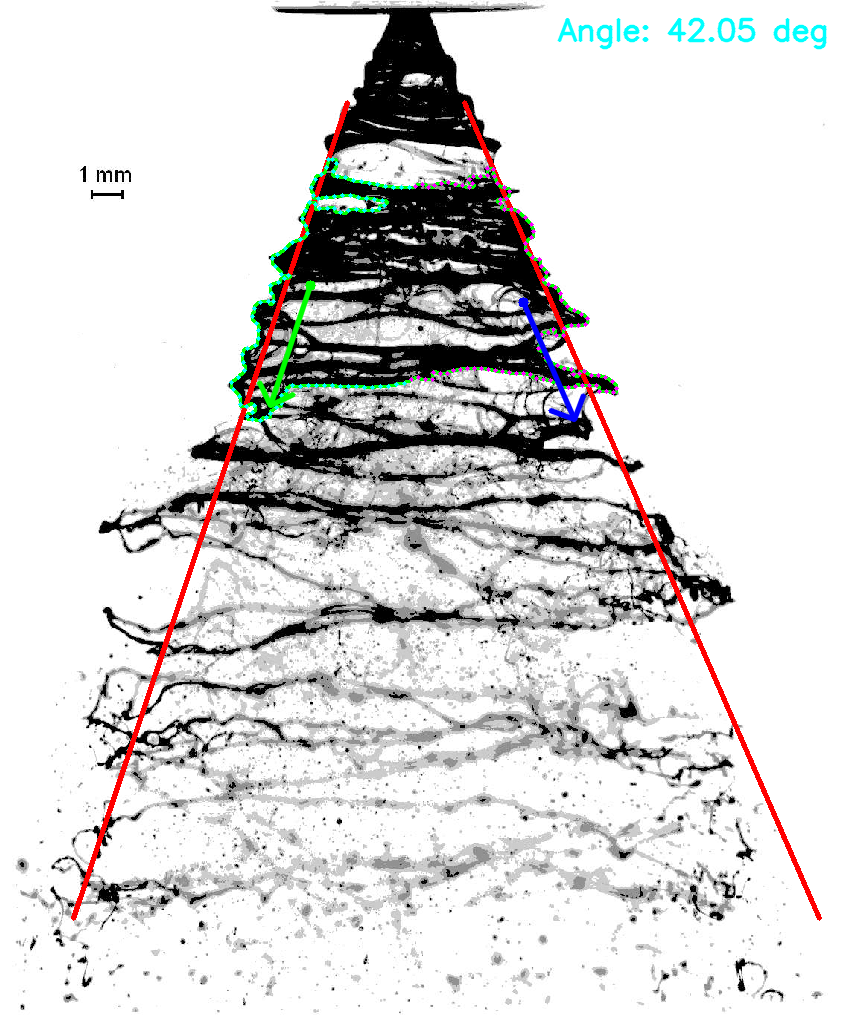
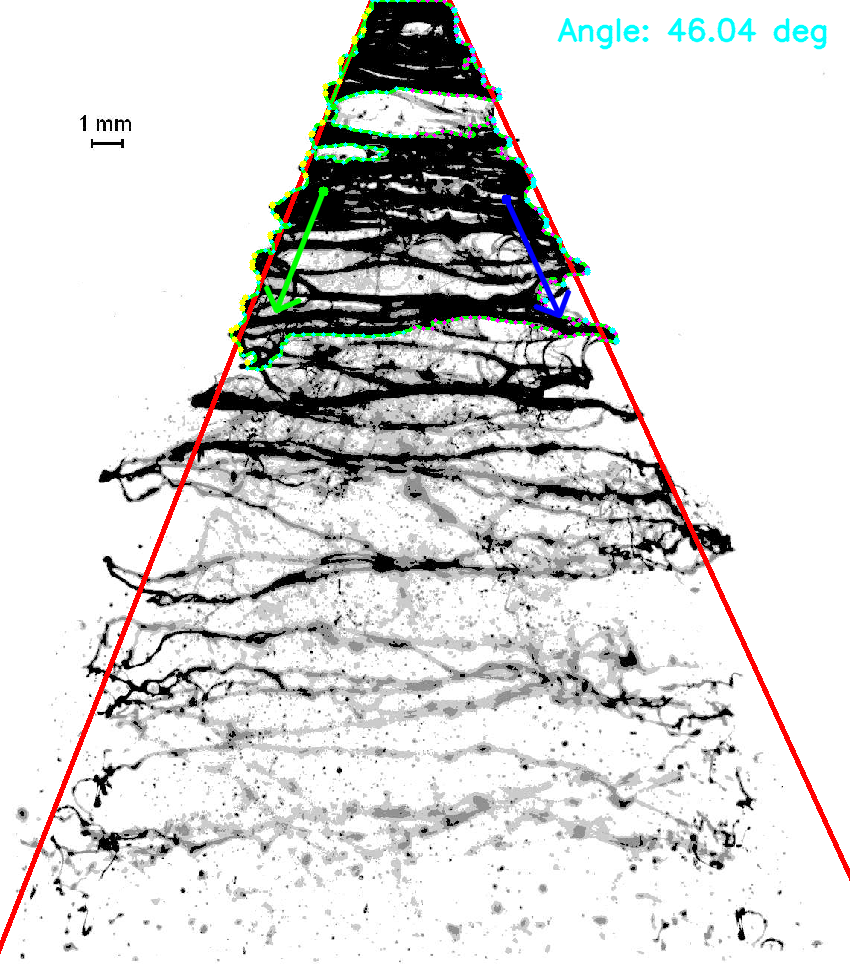
Cone working nicely
Working nicely. Uses the outermost points found from the PCA analysis to draw the lines, and chops off the top 5% of the image to make sure it only sees the cone.

diff --git a/Trials/Cone_3.py b/Trials/Cone_3.py
@@ -98,9 +98,10 @@ def preprocess_image(gray: np.ndarray) -> np.ndarray:
     
     # Clear image borders to prevent detecting frame as contour
     # Set border pixels to background (255 = white background)
+    # Note: Don't clear top border - cone should start at the top
     h, w = closed.shape
     border_px = max(5, min(w, h) // 100)  # At least 5 pixels, or 1% of smaller dimension
-    closed[:border_px, :] = 255  # Top border
+    # closed[:border_px, :] = 255  # Top border - DISABLED to allow top of cone
     closed[-border_px:, :] = 255  # Bottom border
     closed[:, :border_px] = 255  # Left border
     closed[:, -border_px:] = 255  # Right border
@@ -152,9 +153,12 @@ def find_spray_contour(binary: np.ndarray, border_px: int = 5) -> np.ndarray:
         
         # Reject contours that touch image borders (likely frame artifacts)
         # Use margin based on border_px used in preprocessing
+        # Note: Allow touching top border - cone should start at top
         margin = max(5, border_px + 2)  # Small margin
-        touches_border = (x <= margin or y <= margin or 
-                         x + cw >= w - margin or y + ch >= h - margin)
+        touches_border = (x <= margin or  # Left border
+                         x + cw >= w - margin or  # Right border
+                         y + ch >= h - margin)  # Bottom border
+        # Don't check top border (y <= margin) - cone can start at top
         
         if touches_border:
             continue
@@ -178,9 +182,12 @@ def find_spray_contour(binary: np.ndarray, border_px: int = 5) -> np.ndarray:
             x, y, cw, ch = cv2.boundingRect(c)
             
             # More relaxed border check - only reject if clearly on border
+            # Note: Allow touching top border - cone should start at top
             margin = 2
-            touches_border = (x <= margin or y <= margin or 
-                             x + cw >= w - margin or y + ch >= h - margin)
+            touches_border = (x <= margin or  # Left border
+                             x + cw >= w - margin or  # Right border
+                             y + ch >= h - margin)  # Bottom border
+            # Don't check top border (y <= margin) - cone can start at top
             
             if touches_border:
                 continue
@@ -221,10 +228,100 @@ def find_spray_contour(binary: np.ndarray, border_px: int = 5) -> np.ndarray:
         print(f"[Cone_3] All {len(contours)} contours were rejected")
         raise RuntimeError(f"No suitable contours found after all filtering attempts (area: {min_area:.0f}-{max_area:.0f}, not touching borders)")
     
-    # Select the largest contour from filtered set
-    largest_contour = max(filtered_contours, key=cv2.contourArea)
+    # Handle disconnected contours (e.g., void in middle of cone)
+    # If multiple contours, try to combine vertically-aligned ones or select topmost
+    if len(filtered_contours) > 1:
+        print(f"[Cone_3] Found {len(filtered_contours)} filtered contours - checking for vertical alignment...")
+        
+        # Sort contours by topmost Y coordinate (top of bounding box)
+        contours_with_tops = []
+        for c in filtered_contours:
+            x, y, cw, ch = cv2.boundingRect(c)
+            top_y = y
+            contours_with_tops.append((top_y, c))
+        
+        # Sort by top Y (ascending - topmost first)
+        contours_with_tops.sort(key=lambda x: x[0])
+        
+        # Check if contours are vertically aligned (likely top and bottom parts of same cone)
+        # Two contours are aligned if their X ranges overlap significantly
+        def x_overlap(rect1, rect2):
+            x1, y1, w1, h1 = rect1
+            x2, y2, w2, h2 = rect2
+            x1_end = x1 + w1
+            x2_end = x2 + w2
+            overlap_start = max(x1, x2)
+            overlap_end = min(x1_end, x2_end)
+            if overlap_end <= overlap_start:
+                return 0
+            overlap_width = overlap_end - overlap_start
+            min_width = min(w1, w2)
+            return overlap_width / min_width if min_width > 0 else 0
+        
+        # Try to combine vertically-aligned contours
+        combined_contours = []
+        used = set()
+        
+        for i, (top_y1, c1) in enumerate(contours_with_tops):
+            if i in used:
+                continue
+            
+            rect1 = cv2.boundingRect(c1)
+            combined = [c1]
+            used.add(i)
+            
+            # Look for other contours that are vertically aligned
+            for j, (top_y2, c2) in enumerate(contours_with_tops[i+1:], start=i+1):
+                if j in used:
+                    continue
+                
+                rect2 = cv2.boundingRect(c2)
+                overlap_ratio = x_overlap(rect1, rect2)
+                
+                # If X ranges overlap significantly (>50%) and vertically separated, combine
+                if overlap_ratio > 0.5:
+                    # Check vertical separation - should have gap but not too far
+                    y1_bottom = rect1[1] + rect1[3]
+                    y2_top = rect2[1]
+                    gap = y2_top - y1_bottom
+                    max_gap = h * 0.3  # Allow gap up to 30% of image height
+                    
+                    if 0 <= gap <= max_gap:
+                        print(f"[Cone_3]   Combining contours {i} and {j} (X overlap: {overlap_ratio:.2f}, gap: {gap:.0f}px)")
+                        combined.append(c2)
+                        used.add(j)
+                        # Update rect1 to include both
+                        x1, y1, w1, h1 = rect1
+                        x2, y2, w2, h2 = rect2
+                        x_min = min(x1, x2)
+                        y_min = min(y1, y2)
+                        x_max = max(x1 + w1, x2 + w2)
+                        y_max = max(y1 + h1, y2 + h2)
+                        rect1 = (x_min, y_min, x_max - x_min, y_max - y_min)
+            
+            # Combine all contours in this group
+            if len(combined) > 1:
+                # Concatenate all points
+                all_points = np.vstack([c.reshape(-1, 2) for c in combined])
+                # Create new contour from combined points
+                combined_contour = all_points.reshape(-1, 1, 2).astype(np.int32)
+                combined_contours.append(combined_contour)
+            else:
+                combined_contours.append(combined[0])
+        
+        if combined_contours:
+            print(f"[Cone_3] Combined into {len(combined_contours)} contour(s)")
+            # Select the topmost combined contour (should include the top part)
+            topmost_combined = min(combined_contours, key=lambda c: cv2.boundingRect(c)[1])
+            return topmost_combined
+        else:
+            # Fallback: select topmost contour
+            print(f"[Cone_3]   No vertical alignment found, selecting topmost contour")
+            topmost_contour = contours_with_tops[0][1]
+            return topmost_contour
     
-    return largest_contour
+    # Single contour - return it
+    return filtered_contours[0]
 
 
 def split_contour_edges(contour: np.ndarray, nozzle_x: float | None = None) -> tuple[np.ndarray, np.ndarray]:
@@ -266,6 +363,72 @@ def split_contour_edges(contour: np.ndarray, nozzle_x: float | None = None) -> t
         raise ValueError(f"Right edge has too few points: {len(right_points)}")
     
     return left_points, right_points
+
+
+def extract_outermost_points(points: np.ndarray, is_left_edge: bool) -> np.ndarray:
+    """
+    Extract the outermost points from an edge (leftmost for left edge, rightmost for right edge).
+    This helps fit lines to the actual outer boundary rather than the average of all points.
+    
+    Args:
+        points: Array of edge points (N, 2)
+        is_left_edge: True for left edge (extract leftmost), False for right edge (extract rightmost)
+        
+    Returns:
+        Array of outermost points (M, 2) where M <= N
+    """
+    if len(points) == 0:
+        return points
+    
+    # Bin points by y-coordinate to find outermost at each y-level
+    # Use bins to handle multiple points at similar y-levels
+    y_min, y_max = points[:, 1].min(), points[:, 1].max()
+    num_bins = max(20, int((y_max - y_min) / 10))  # At least 20 bins, or 1 bin per 10 pixels
+    num_bins = min(num_bins, len(points) // 2)  # Don't over-bin
+    
+    if num_bins < 2:
+        # Too few points or too small range - just return outermost overall
+        if is_left_edge:
+            return points[np.argmin(points[:, 0])].reshape(1, -1)
+        else:
+            return points[np.argmax(points[:, 0])].reshape(1, -1)
+    
+    bin_edges = np.linspace(y_min, y_max, num_bins + 1)
+    outermost_points = []
+    
+    for i in range(num_bins):
+        # Find points in this y-bin
+        y_low = bin_edges[i]
+        y_high = bin_edges[i + 1]
+        mask = (points[:, 1] >= y_low) & (points[:, 1] < y_high)
+        bin_points = points[mask]
+        
+        if len(bin_points) == 0:
+            continue
+        
+        # For left edge: find leftmost (minimum x)
+        # For right edge: find rightmost (maximum x)
+        if is_left_edge:
+            outer_idx = np.argmin(bin_points[:, 0])
+        else:
+            outer_idx = np.argmax(bin_points[:, 0])
+        
+        outermost_points.append(bin_points[outer_idx])
+    
+    # Handle last bin (include upper edge)
+    mask = points[:, 1] >= bin_edges[-2]
+    bin_points = points[mask]
+    if len(bin_points) > 0:
+        if is_left_edge:
+            outer_idx = np.argmin(bin_points[:, 0])
+        else:
+            outer_idx = np.argmax(bin_points[:, 0])
+        outermost_points.append(bin_points[outer_idx])
+    
+    if len(outermost_points) == 0:
+        return points
+    
+    return np.array(outermost_points)
 
 
 def compute_pca_direction(points: np.ndarray) -> tuple[np.ndarray, float]:
@@ -359,6 +522,13 @@ def detect_cone_angle(image_path: Path, nozzle_x: float | None = None) -> tuple[
     """
     # Load and preprocess
     gray = load_image(image_path)
+    
+    # Crop top 5% of image to remove artifacts before any processing
+    h_original, w_original = gray.shape
+    top_crop_px = int(h_original * 0.05)
+    gray = gray[top_crop_px:, :]  # Remove top 5%, keep rest
+    print(f"[Cone_3] Cropped top {top_crop_px} pixels ({100*top_crop_px/h_original:.1f}%) from image")
+    
     binary = preprocess_image(gray)
     
     # Store early debug info (always available)
@@ -385,9 +555,16 @@ def detect_cone_angle(image_path: Path, nozzle_x: float | None = None) -> tuple[
     # Split into edges
     left_points, right_points = split_contour_edges(contour, nozzle_x)
     
-    # Compute PCA directions
-    left_dir, left_var = compute_pca_direction(left_points)
-    right_dir, right_var = compute_pca_direction(right_points)
+    # Extract outermost points from each edge to fit to the actual outer boundary
+    # This gives a better fit than using all points (which may be conservative)
+    left_outer = extract_outermost_points(left_points, is_left_edge=True)
+    right_outer = extract_outermost_points(right_points, is_left_edge=False)
+    
+    print(f"[Cone_3] Using {len(left_outer)}/{len(left_points)} left outermost points, {len(right_outer)}/{len(right_points)} right outermost points")
+    
+    # Compute PCA directions on outermost points (top 5% already cropped from image, so all points are valid)
+    left_dir, left_var = compute_pca_direction(left_outer)
+    right_dir, right_var = compute_pca_direction(right_outer)
     
     # Compute cone angle
     angle_deg = compute_cone_angle(left_dir, right_dir)
@@ -398,17 +575,18 @@ def detect_cone_angle(image_path: Path, nozzle_x: float | None = None) -> tuple[
     h, w = gray.shape
     
     # Draw lines along the actual contour edges
-    # Find the topmost point (apex) for each edge
-    left_top_idx = np.argmin(left_points[:, 1])  # Minimum y = top
-    right_top_idx = np.argmin(right_points[:, 1])
+    # Find the topmost point (apex) for each edge using outermost points
+    # (consistent with PCA which uses outermost points)
+    left_top_idx = np.argmin(left_outer[:, 1])  # Minimum y = top
+    right_top_idx = np.argmin(right_outer[:, 1])
     
-    # Get topmost points (apex)
-    left_top = left_points[left_top_idx]
-    right_top = right_points[right_top_idx]
+    # Get topmost points (apex) from outermost points
+    left_top = left_outer[left_top_idx]
+    right_top = right_outer[right_top_idx]
     
-    # Calculate line positions for middle 80% of image (top 10% and bottom 10% free)
-    top_y = h * 0.10  # Start at 10% from top
-    bottom_y = h * 0.90  # End at 90% from top (10% from bottom)
+    # Calculate line positions - span from top to bottom of image
+    top_y = 0  # Start at top of image
+    bottom_y = h  # End at bottom of image
     
     # Project lines from apex along PCA direction to the desired y positions
     # left_dir and right_dir are normalized direction vectors pointing downward
@@ -457,6 +635,12 @@ def detect_cone_angle(image_path: Path, nozzle_x: float | None = None) -> tuple[
         for pt in right_points[::max(1, len(right_points)//100)]:  # Sample points for visibility
             cv2.circle(annotated, (int(pt[0]), int(pt[1])), 2, (255, 0, 255), -1)
         
+        # Draw outermost points used for PCA (larger, brighter circles)
+        for pt in left_outer:
+            cv2.circle(annotated, (int(pt[0]), int(pt[1])), 3, (0, 255, 255), -1)  # Bright cyan
+        for pt in right_outer:
+            cv2.circle(annotated, (int(pt[0]), int(pt[1])), 3, (255, 255, 0), -1)  # Bright yellow
+        
         # Draw PCA vectors (longer arrows)
         vec_length = min(w, h) * 0.15
         # Left PCA vector (bright green)
@@ -490,6 +674,8 @@ def detect_cone_angle(image_path: Path, nozzle_x: float | None = None) -> tuple[
         "contour_area": cv2.contourArea(contour),
         "left_points_count": len(left_points),
         "right_points_count": len(right_points),
+        "left_outer_count": len(left_outer),
+        "right_outer_count": len(right_outer),
         "left_variance_explained": left_var,
         "right_variance_explained": right_var,
         "left_direction": left_dir.tolist(),
@@ -499,6 +685,8 @@ def detect_cone_angle(image_path: Path, nozzle_x: float | None = None) -> tuple[
         "contour": contour,
         "left_points": left_points,
         "right_points": right_points,
+        "left_outer": left_outer,
+        "right_outer": right_outer,
         "left_center": left_center,
         "right_center": right_center,
         "left_dir": left_dir,
